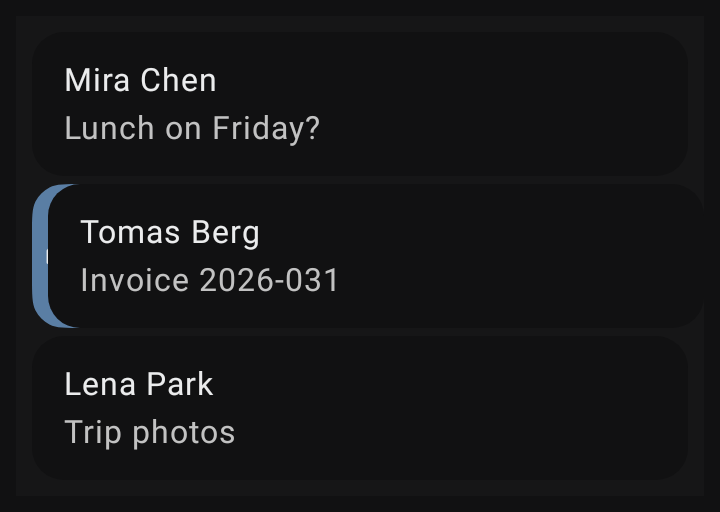
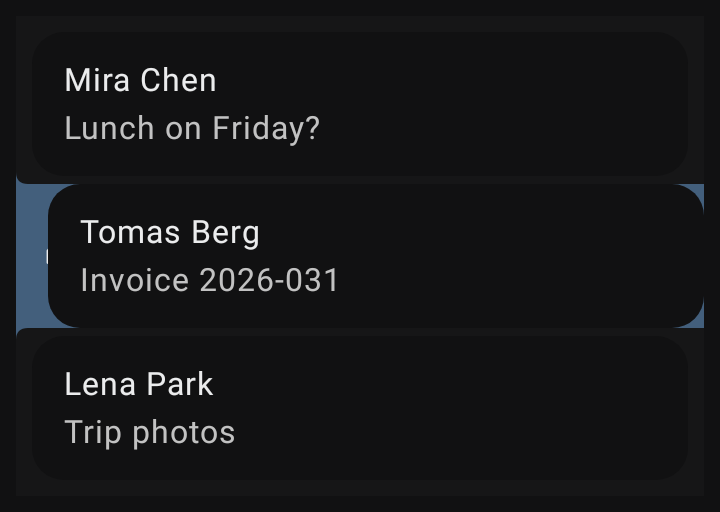
feat(swipe): extend the swipe accent to the screen edges
- Add an edgeInset to SwipeActions so the row stays inset while its band fills the width.
- Flare the band into the screen edge with small inverted corners.
- Fill the band with accentDark, the primary button's fill.
- Re-record the swipe screenshots.

Changed region(s): [[0.0, 0.3438, 0.0917, 0.6562], [0.9472, 0.5938, 0.9778, 0.6562], [0.9472, 0.3438, 0.9778, 0.4062]]

diff --git a/designsystem/src/commonMain/kotlin/com/otus/designsystem/shared/swipe/components/SwipeBackdrop.kt b/designsystem/src/commonMain/kotlin/com/otus/designsystem/shared/swipe/components/SwipeBackdrop.kt
@@ -1,7 +1,6 @@
 package com.otus.designsystem.shared.swipe.components
 
 import androidx.compose.animation.core.animate
-import androidx.compose.foundation.background
 import androidx.compose.foundation.gestures.AnchoredDraggableState
 import androidx.compose.foundation.gestures.DraggableAnchors
 import androidx.compose.foundation.gestures.ScrollScope
@@ -15,27 +14,29 @@ import androidx.compose.material.Text
 import androidx.compose.runtime.Composable
 import androidx.compose.ui.Alignment
 import androidx.compose.ui.Modifier
-import androidx.compose.ui.draw.clip
 import androidx.compose.ui.draw.drawBehind
+import androidx.compose.ui.graphics.Color
+import androidx.compose.ui.graphics.Path
+import androidx.compose.ui.graphics.compositeOver
 import androidx.compose.ui.graphics.graphicsLayer
 import androidx.compose.ui.layout.onSizeChanged
 import androidx.compose.ui.platform.LocalDensity
 import androidx.compose.ui.platform.LocalLayoutDirection
+import androidx.compose.ui.unit.Dp
 import androidx.compose.ui.unit.LayoutDirection
 import com.otus.designsystem.shared.controls.elements.Symbol
 import com.otus.designsystem.theme.colors.OtusColors
 import com.otus.designsystem.theme.motion.Motion
 import com.otus.designsystem.theme.motion.MotionSpeed
-import com.otus.designsystem.theme.shapes.SmoothCornerShape
-import com.otus.designsystem.theme.tokens.rows.EntryTokens
 import com.otus.designsystem.theme.tokens.rows.SwipeTokens
 import kotlin.math.abs
 
 /**
- * The accent card behind a swiped row, the row card's full size and shape, which the row slides
- * off. The action's icon and label sit at the edge the row uncovers. The icon grows and slides in
- * until the drag [distance] reaches the threshold. A release that commits brightens the card by
- * [flash]. [onMeasured] reports the width the label needs.
+ * The accent band behind a swiped row, edge to edge at the row's height, which the row slides off.
+ * Where it meets the uncovered screen edge, small inverted corners flare it into the gaps above and
+ * below. The action's icon and label sit [edgeInset] in from the band's edge, where the row's card begins.
+ * The icon grows and slides in until the drag [distance] reaches the threshold. A release that
+ * commits brightens the band by [flash]. [onMeasured] reports the width the label needs.
  */
 @Composable
 internal fun SwipeBackdrop(
@@ -43,6 +44,7 @@ internal fun SwipeBackdrop(
     distance: Float,
     fromStart: Boolean,
     flash: Float,
+    edgeInset: Dp,
     modifier: Modifier,
     onMeasured: (Float) -> Unit,
 ) {
@@ -52,15 +54,18 @@ internal fun SwipeBackdrop(
     val scale = SwipeTokens.ICON_START_SCALE + progress * (1f - SwipeTokens.ICON_START_SCALE)
     val shift = with(density) { SwipeTokens.iconEntry.toPx() } * (1f - progress) * if (fromLeft) -1f else 1f
     Box(
-        modifier
-            .clip(SmoothCornerShape(EntryTokens.radius))
-            .background(OtusColors.accentRegular)
-            .drawBehind { if (flash > 0f) drawRect(OtusColors.text1.copy(alpha = flash)) },
+        modifier.edgeBand(
+            OtusColors.text1.copy(alpha = flash).compositeOver(OtusColors.accentDark),
+            SwipeTokens.edgeFlare,
+            fromLeft,
+        ),
     ) {
         Row(
             Modifier
                 .align(if (fromStart) Alignment.CenterStart else Alignment.CenterEnd)
                 .fillMaxHeight()
+                // Outside the measurement, so the row still stops just past the label.
+                .padding(horizontal = edgeInset)
                 .onSizeChanged { onMeasured(it.width.toFloat()) }
                 .padding(horizontal = SwipeTokens.inset),
             horizontalArrangement = Arrangement.spacedBy(SwipeTokens.gap),
@@ -78,6 +83,34 @@ internal fun SwipeBackdrop(
         }
     }
 }
+
+/**
+ * Fills the band with [color] and flares it by [flare] above and below at the left or right edge,
+ * with concave corners, so it runs into the screen edge. The flares draw outside the band's bounds.
+ */
+private fun Modifier.edgeBand(
+    color: Color,
+    flare: Dp,
+    fromLeft: Boolean,
+): Modifier =
+    drawBehind {
+        val radius = flare.toPx()
+        val edge = if (fromLeft) 0f else size.width
+        val inward = if (fromLeft) radius else -radius
+        drawRect(color)
+        listOf(0f to -radius, size.height to radius).forEach { (base, outward) ->
+            drawPath(
+                Path().apply {
+                    moveTo(edge, base)
+                    lineTo(edge, base + outward)
+                    // Curves from the screen edge back to the band through the corner, like an inverted radius.
+                    quadraticTo(edge, base, edge + inward, base)
+                    close()
+                },
+                color,
+            )
+        }
+    }
 
 /**
  * Settles a release by distance alone. Past [threshold], [commit] takes over the row and moves it

diff --git a/designsystem/src/commonMain/kotlin/com/otus/designsystem/shared/swipe/components/SwipeActions.kt b/designsystem/src/commonMain/kotlin/com/otus/designsystem/shared/swipe/components/SwipeActions.kt
@@ -13,6 +13,7 @@ import androidx.compose.foundation.gestures.anchoredDraggable
 import androidx.compose.foundation.layout.Box
 import androidx.compose.foundation.layout.fillMaxWidth
 import androidx.compose.foundation.layout.offset
+import androidx.compose.foundation.layout.padding
 import androidx.compose.runtime.Composable
 import androidx.compose.runtime.LaunchedEffect
 import androidx.compose.runtime.SideEffect
@@ -34,8 +35,10 @@ import androidx.compose.ui.platform.LocalLayoutDirection
 import androidx.compose.ui.semantics.CustomAccessibilityAction
 import androidx.compose.ui.semantics.customActions
 import androidx.compose.ui.semantics.semantics
+import androidx.compose.ui.unit.Dp
 import androidx.compose.ui.unit.IntOffset
 import androidx.compose.ui.unit.LayoutDirection
+import androidx.compose.ui.unit.dp
 import com.otus.designsystem.theme.motion.LocalMotionScale
 import com.otus.designsystem.theme.motion.Motion
 import com.otus.designsystem.theme.motion.MotionSpeed
@@ -49,8 +52,10 @@ import kotlin.math.roundToInt
 
 /**
  * Hosts a row that reveals [startToEnd] when dragged toward the end edge and [endToStart] when
- * dragged toward the start edge. An accent card the row's size waits behind it, so the row slides
- * off it; give [content] an opaque background, such as a card. The
+ * dragged toward the start edge. An accent band the row's height waits behind it, so the row slides
+ * off it; give [content] an opaque background, such as a card. The band fills the whole width, so
+ * with [edgeInset] between the row and the screen edges it reaches the edges while the row stays
+ * inset. The
  * action's icon grows in beside its label until the fixed threshold, where a haptic marks that
  * release will act.
  * Releasing past it flashes and runs the action once; shorter drags spring back. The row stops
@@ -66,6 +71,7 @@ public fun SwipeActions(
     startToEnd: SwipeAction?,
     endToStart: SwipeAction?,
     modifier: Modifier = Modifier,
+    edgeInset: Dp = 0.dp,
     settledBy: Any? = null,
     content: @Composable () -> Unit,
 ) {
@@ -104,12 +110,13 @@ public fun SwipeActions(
                 abs(offset),
                 direction == SwipeAnchor.StartToEnd,
                 flash.value,
+                edgeInset,
                 Modifier.matchParentSize(),
             ) {
                 revealWidths[direction] = maxOf(threshold, it)
             }
         }
-        SwipeForeground(rowOffset, content)
+        SwipeForeground(rowOffset, edgeInset, content)
     }
 }
 
@@ -247,16 +254,18 @@ internal fun ThresholdHaptic(armed: Boolean) {
     LaunchedEffect(armed) { if (armed) haptics.performHapticFeedback(HapticFeedbackType.GestureThresholdActivate) }
 }
 
-/** The row itself, moved by [offset]; opaque so the revealed area never shows through it. */
+/** The row itself, [inset] from the edges and moved by [offset]; opaque so the revealed area never shows through it. */
 @Composable
 private fun SwipeForeground(
     offset: Float,
+    inset: Dp,
     content: @Composable () -> Unit,
 ) {
     val sign = if (LocalLayoutDirection.current == LayoutDirection.Rtl) -1f else 1f
     Box(
         Modifier
             .fillMaxWidth()
+            .padding(horizontal = inset)
             .offset { IntOffset((offset * sign).roundToInt(), 0) },
     ) { content() }
 }

diff --git a/designsystem/src/androidHostTest/kotlin/com/otus/designsystem/shared/swipe/components/SwipeActionsScreenshotTest.kt b/designsystem/src/androidHostTest/kotlin/com/otus/designsystem/shared/swipe/components/SwipeActionsScreenshotTest.kt
@@ -62,9 +62,9 @@ class SwipeActionsScreenshotTest {
 
     @Composable
     private fun Rows() =
-        // The list's own surface and spacing, which show around the cards.
+        // The list's own surface and spacing, which show around the cards; rows inset themselves.
         Column(
-            Modifier.background(OtusColors.bgRegular).padding(InboxTokens.pageInset),
+            Modifier.background(OtusColors.bgRegular).padding(vertical = InboxTokens.pageInset),
             verticalArrangement = Arrangement.spacedBy(EntryTokens.gap),
         ) {
             Row("Mira Chen", "Lunch on Friday?")
@@ -81,6 +81,7 @@ class SwipeActionsScreenshotTest {
         SwipeAction(UiAction("Archive", Res.drawable.symbol_archive) {}),
         SwipeAction(UiAction("Delete", Res.drawable.symbol_delete) {}, dismisses = true),
         modifier,
+        edgeInset = InboxTokens.pageInset,
     ) {
         Column(
             Modifier

diff --git a/designsystem/src/commonMain/kotlin/com/otus/designsystem/theme/tokens/rows/SwipeTokens.kt b/designsystem/src/commonMain/kotlin/com/otus/designsystem/theme/tokens/rows/SwipeTokens.kt
@@ -11,6 +11,9 @@ internal object SwipeTokens {
     val inset = Spacing.gutter
     val gap = 8.dp
 
+    /** Radius of the inverted corners that flare a swipe's band into the screen edge. */
+    val edgeFlare = 6.dp
+
     /** How far the icon slides in from the edge while it grows to full size at the threshold. */
     val iconEntry = 16.dp
 

diff --git a/CHANGELOG.md b/CHANGELOG.md
@@ -2,6 +2,10 @@
 
 ## Unreleased
 
+- Design system: `SwipeActions` takes an `edgeInset`. It insets the row by that much and lets the
+  swipe's accent band fill the full width, out to the screen edges, where small inverted corners
+  flare it into the gaps between rows. The band now uses `accentDark`, the primary button's fill,
+  and is no longer rounded.
 - Settings: the theme page drops its Accent color section and custom accent sheet. Apps set the
   accent through a generated theme or the accent shades under Colors.
 - Design system: `ThemeCard` shows a theme's surfaces, text, and accent as two rows of
